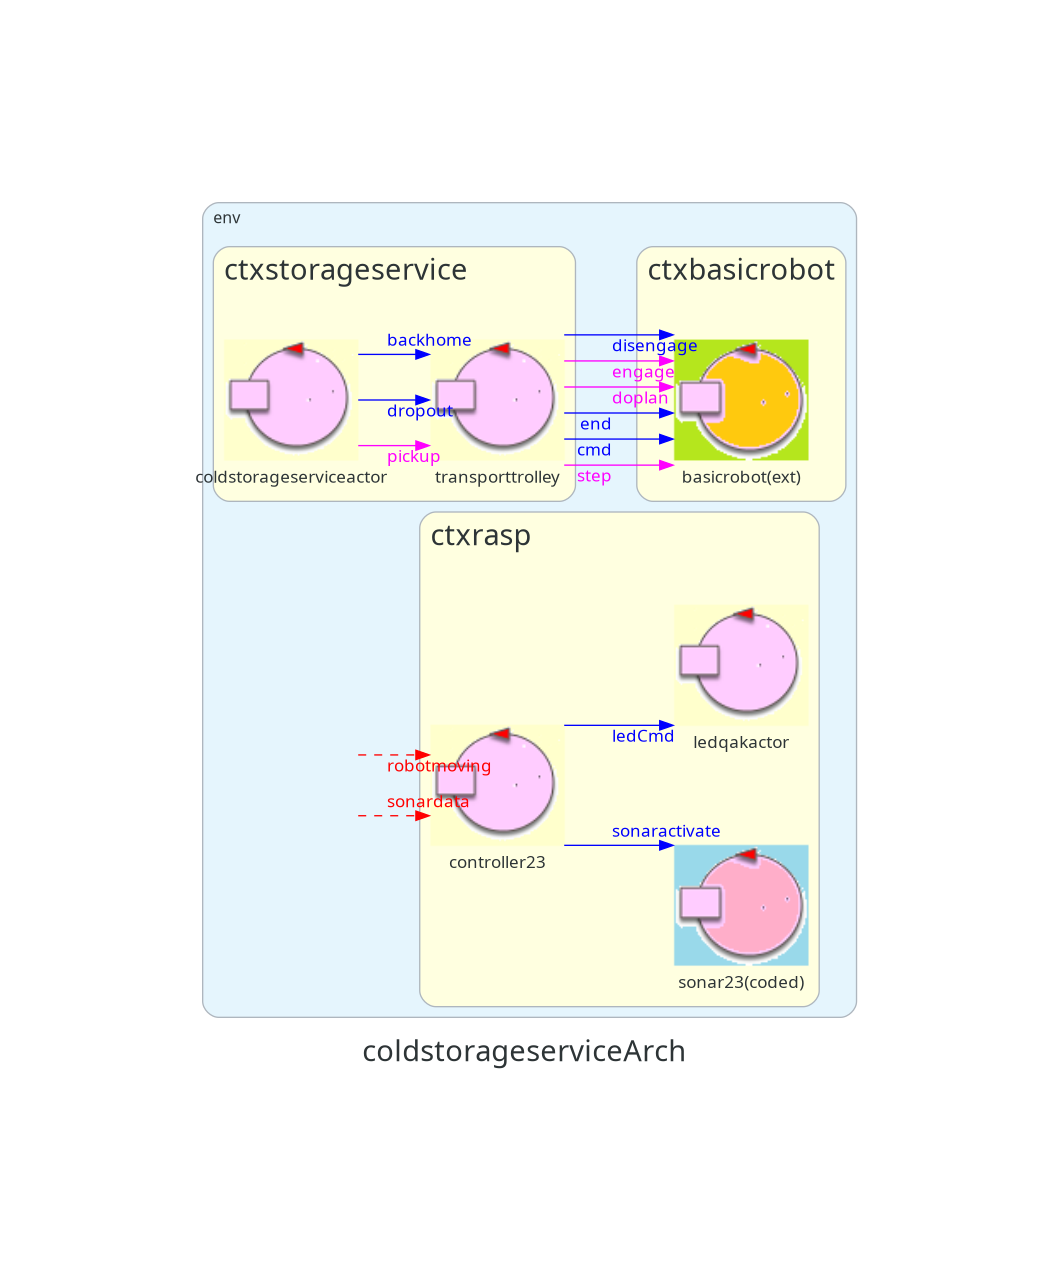
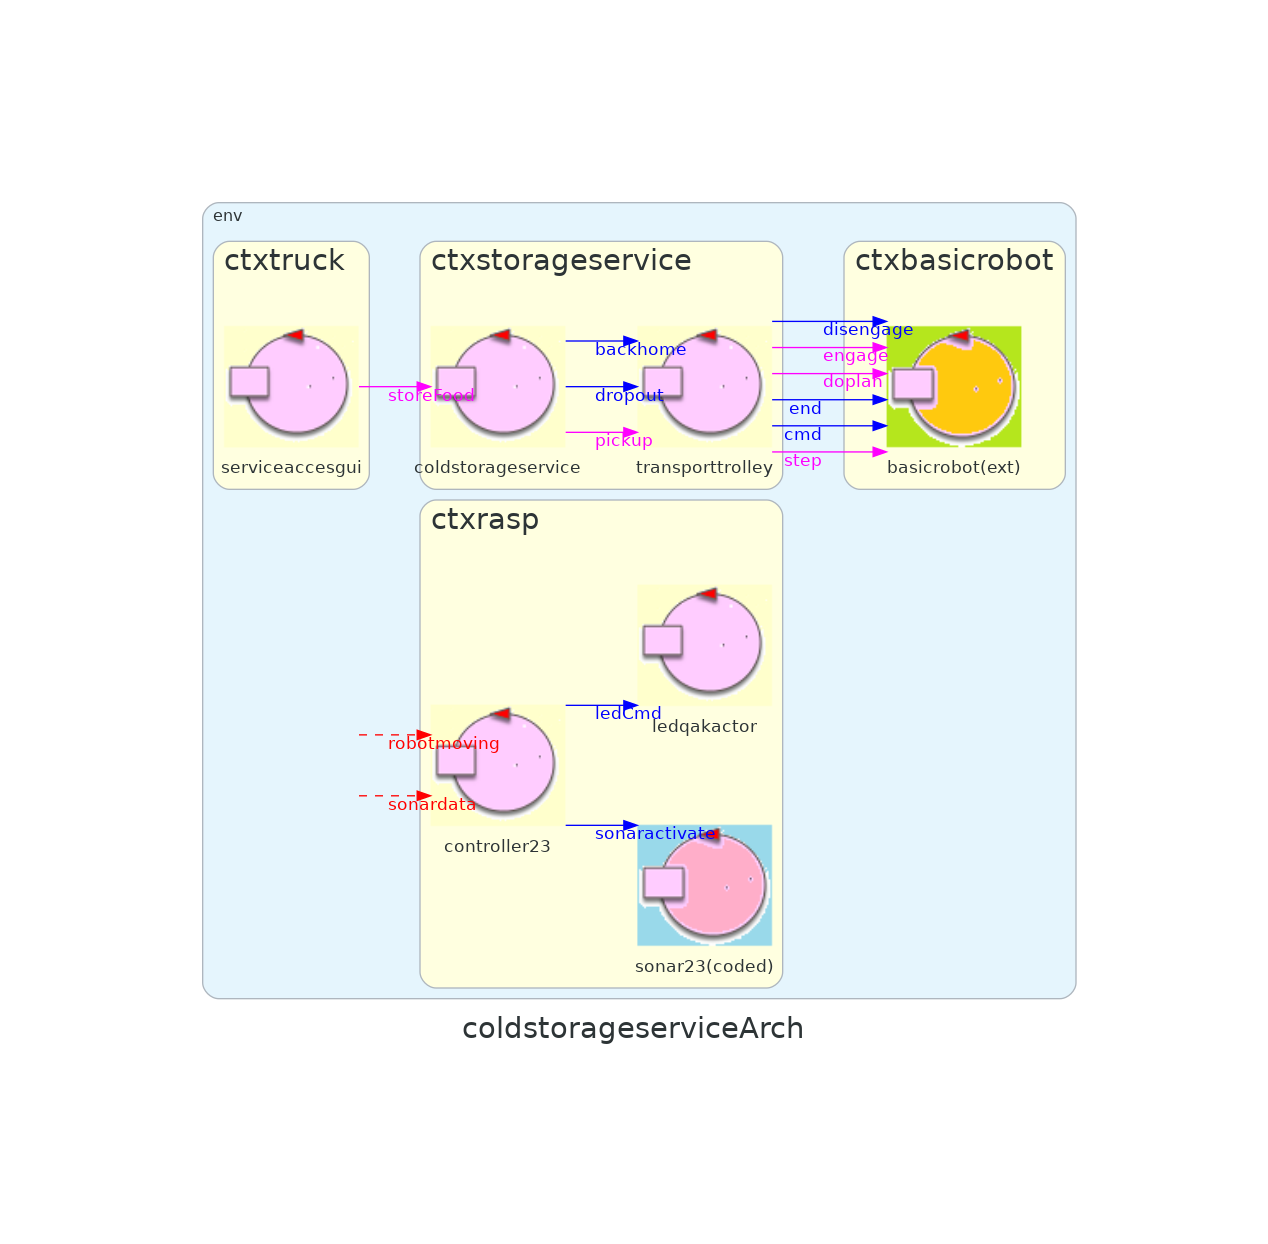
piccoli cambiamenti e modifiche
inserimento immagini, aggiunta service access gui

Changed region(s): [[0.1525, 0.1527, 0.8541, 0.8553]]

diff --git a/Sprint0/src/it/unibo/coldstorageservice/Coldstorageservice.kt b/Sprint0/src/it/unibo/coldstorageservice/Coldstorageservice.kt
@@ -1,0 +1,107 @@
+/* Generated by AN DISI Unibo */ 
+package it.unibo.coldstorageservice
+
+import it.unibo.kactor.*
+import alice.tuprolog.*
+import unibo.basicomm23.*
+import unibo.basicomm23.interfaces.*
+import unibo.basicomm23.utils.*
+import kotlinx.coroutines.CoroutineScope
+import kotlinx.coroutines.delay
+import kotlinx.coroutines.launch
+import kotlinx.coroutines.runBlocking
+	
+class Coldstorageservice ( name: String, scope: CoroutineScope  ) : ActorBasicFsm( name, scope ){
+
+	override fun getInitialState() : String{
+		return "setup"
+	}
+	override fun getBody() : (ActorBasicFsm.() -> Unit){
+		val interruptedStateTransitions = mutableListOf<Transition>()
+		
+			val maxw = coldstorageservice.Constants.MAXW
+		    var curretWeightStorage = 0.0
+		    var requestWeightToStore = 0.0
+		return { //this:ActionBasciFsm
+				state("setup") { //this:State
+					action { //it:State
+						CommUtils.outblack("$name |	setup")
+						//genTimer( actor, state )
+					}
+					//After Lenzi Aug2002
+					sysaction { //it:State
+					}	 	 
+					 transition( edgeName="goto",targetState="idle", cond=doswitch() )
+				}	 
+				state("idle") { //this:State
+					action { //it:State
+						CommUtils.outblack("$name |	in idle")
+						updateResourceRep(maxw.toJsonString() 
+						)
+						//genTimer( actor, state )
+					}
+					//After Lenzi Aug2002
+					sysaction { //it:State
+					}	 	 
+					 transition(edgeName="t05",targetState="requestEvaluation",cond=whenRequest("storeFood"))
+				}	 
+				state("requestEvaluation") { //this:State
+					action { //it:State
+						if( checkMsgContent( Term.createTerm("storeFood(_)"), Term.createTerm("storeFood(FW)"), 
+						                        currentMsg.msgContent()) ) { //set msgArgList
+								
+								        		try{
+								        			requestWeightToStore = (payloadArg(1).toFloat())
+								        		}catch(e : Exception){
+								answer("storeFood", "storeRejected", "storeRejected(_)"   )  
+								
+								        		}
+						}
+						//genTimer( actor, state )
+					}
+					//After Lenzi Aug2002
+					sysaction { //it:State
+					}	 	 
+					 transition( edgeName="goto",targetState="acceptRequest", cond=doswitchGuarded({ coldRoom.canStore(requestWeightToStore)  
+					}) )
+					transition( edgeName="goto",targetState="rejectRequest", cond=doswitchGuarded({! ( coldRoom.canStore(requestWeightToStore)  
+					) }) )
+				}	 
+				state("rejectRequest") { //this:State
+					action { //it:State
+						answer("storeFood", "storeRejected", "storeRejected(_)"   )  
+						//genTimer( actor, state )
+					}
+					//After Lenzi Aug2002
+					sysaction { //it:State
+					}	 	 
+					 transition( edgeName="goto",targetState="idle", cond=doswitch() )
+				}	 
+				state("acceptRequest") { //this:State
+					action { //it:State
+						
+						    	TICKET = coldstorageservice.Generate.TOKEN
+						    	TICKETID = TOKEN.TICKETID	
+						answer("storeFood", "storeAccepted", "storeAccepted(TICKET)"   )  
+						request("pickup", "pickup(TICKETID)" ,"transporttrolley" )  
+						//genTimer( actor, state )
+					}
+					//After Lenzi Aug2002
+					sysaction { //it:State
+					}	 	 
+					 transition(edgeName="t06",targetState="dropout",cond=whenReply("chargeTaken"))
+				}	 
+				state("dropout") { //this:State
+					action { //it:State
+						forward("dropout", "dropout(_)" ,"transporttrolley" ) 
+						forward("backhome", "backhome(_)" ,"transporttrolley" ) 
+						//genTimer( actor, state )
+					}
+					//After Lenzi Aug2002
+					sysaction { //it:State
+					}	 	 
+					 transition( edgeName="goto",targetState="idle", cond=doswitch() )
+				}	 
+			}
+		}
+}

diff --git a/Sprint0/userDocs/sprint0.html b/Sprint0/userDocs/sprint0.html
@@ -109,7 +109,11 @@ Dispatch sonaractivate     : info(ARG)
 Dispatch sonardeactivate   : info(ARG)
 Event sonar               : distance(V)
         </pre>
-<!--        TODO: Inserire qui l'architettura-->
+        <br><br>
+        <img src="./resources/images/sonarpipenano.png" alt="legenda" style="width: 78%;>
+
+        <!-------------Store Food--------->
+        <div id="sf">
         <br>
          L'attore <bc>distanceFilter</bc> filtra e invia al prossimo attore eventi di tipo ostacolo: l'evento viene creato solo quando la distanza 'filtrata' rilevata &egrave; minore di una distanza fissa predefinita <kc>DLIMIT</kc>.
         <pre>
@@ -482,34 +486,34 @@ QActor transporttrolley context ctxstorageservice {
 
     </div>
 
+
+        <h2>Piano di lavoro</h2>
+         <div class="remark">
+
+        </div>
     <!--
-        <h2>Test plans</h2>
-         <div class="remark">
+            <h2>Project</h2>
+             <div class="remark">
+
+
+
+            </div>
+        </div>
+
+        <h2>Testing</h2>
+        <div class="remark">
 
         </div>
 
-        <h2>Project</h2>
-         <div class="remark">
 
-
+        <h2>Deployment</h2>
+        <div class="remark">
 
         </div>
-    </div>
-
-    <h2>Testing</h2>
-    <div class="remark">
-
-    </div>
 
 
-    <h2>Deployment</h2>
-    <div class="remark">
-
-    </div>
-
-
-    <h2>Maintenance</h2>
-    -->
+        <h2>Maintenance</h2>
+        -->
 <!-- USEFUL
 <table style="width:100%" border="1">
 <tr>

diff --git a/Sprint0/src/it/unibo/serviceaccesgui/Serviceaccesgui.kt b/Sprint0/src/it/unibo/serviceaccesgui/Serviceaccesgui.kt
@@ -1,0 +1,43 @@
+/* Generated by AN DISI Unibo */ 
+package it.unibo.serviceaccesgui
+
+import it.unibo.kactor.*
+import alice.tuprolog.*
+import unibo.basicomm23.*
+import unibo.basicomm23.interfaces.*
+import unibo.basicomm23.utils.*
+import kotlinx.coroutines.CoroutineScope
+import kotlinx.coroutines.delay
+import kotlinx.coroutines.launch
+import kotlinx.coroutines.runBlocking
+	
+class Serviceaccesgui ( name: String, scope: CoroutineScope  ) : ActorBasicFsm( name, scope ){
+
+	override fun getInitialState() : String{
+		return "s0"
+	}
+	override fun getBody() : (ActorBasicFsm.() -> Unit){
+		val interruptedStateTransitions = mutableListOf<Transition>()
+		return { //this:ActionBasciFsm
+				state("s0") { //this:State
+					action { //it:State
+						request("storeFood", "idle" ,"coldstorageservice" )  
+						//genTimer( actor, state )
+					}
+					//After Lenzi Aug2002
+					sysaction { //it:State
+					}	 	 
+					 transition( edgeName="goto",targetState="idle", cond=doswitch() )
+				}	 
+				state("idle") { //this:State
+					action { //it:State
+						CommUtils.outblack("$name |	in idle")
+						//genTimer( actor, state )
+					}
+					//After Lenzi Aug2002
+					sysaction { //it:State
+					}	 	 
+				}	 
+			}
+		}
+}

diff --git a/Sprint0/src/it/unibo/ctxtruck/MainCtxtruck.kt b/Sprint0/src/it/unibo/ctxtruck/MainCtxtruck.kt
@@ -1,0 +1,13 @@
+/* Generated by AN DISI Unibo */ 
+package it.unibo.ctxtruck
+import it.unibo.kactor.QakContext
+import it.unibo.kactor.sysUtil
+import kotlinx.coroutines.runBlocking
+
+fun main() = runBlocking {
+	//System.setProperty(org.slf4j.impl.SimpleLogger.DEFAULT_LOG_LEVEL_KEY, "ERROR");
+	QakContext.createContexts(
+	        "192.168.1.xxx", this, "coldstorageservice.pl", "sysRules.pl","ctxtruck"
+	)
+}
+

diff --git a/Sprint0/Arch_coldstorageservice.py b/Sprint0/Arch_coldstorageservice.py
@@ -26,19 +26,22 @@ with Diagram('coldstorageserviceArch', show=False, outformat='png', graph_attr=g
           controller23=Custom('controller23','./qakicons/symActorSmall.png')
           sonar23=Custom('sonar23(coded)','./qakicons/codedQActor.png')
      with Cluster('ctxstorageservice', graph_attr=nodeattr):
-          coldstorageserviceactor=Custom('coldstorageserviceactor','./qakicons/symActorSmall.png')
+          coldstorageservice=Custom('coldstorageservice','./qakicons/symActorSmall.png')
           transporttrolley=Custom('transporttrolley','./qakicons/symActorSmall.png')
+     with Cluster('ctxtruck', graph_attr=nodeattr):
+          serviceaccesgui=Custom('serviceaccesgui','./qakicons/symActorSmall.png')
      controller23 >> Edge(color='blue', style='solid', xlabel='sonaractivate', fontcolor='blue') >> sonar23
      sys >> Edge(color='red', style='dashed', xlabel='sonardata', fontcolor='red') >> controller23
      sys >> Edge(color='red', style='dashed', xlabel='robotmoving', fontcolor='red') >> controller23
      controller23 >> Edge(color='blue', style='solid', xlabel='ledCmd', fontcolor='blue') >> ledqakactor
-     coldstorageserviceactor >> Edge(color='magenta', style='solid', xlabel='pickup', fontcolor='magenta') >> transporttrolley
-     coldstorageserviceactor >> Edge(color='blue', style='solid', xlabel='dropout', fontcolor='blue') >> transporttrolley
-     coldstorageserviceactor >> Edge(color='blue', style='solid', xlabel='backhome', fontcolor='blue') >> transporttrolley
+     coldstorageservice >> Edge(color='magenta', style='solid', xlabel='pickup', fontcolor='magenta') >> transporttrolley
+     coldstorageservice >> Edge(color='blue', style='solid', xlabel='dropout', fontcolor='blue') >> transporttrolley
+     coldstorageservice >> Edge(color='blue', style='solid', xlabel='backhome', fontcolor='blue') >> transporttrolley
      transporttrolley >> Edge(color='magenta', style='solid', xlabel='step', fontcolor='magenta') >> basicrobot
      transporttrolley >> Edge(color='blue', style='solid', xlabel='cmd', fontcolor='blue') >> basicrobot
      transporttrolley >> Edge(color='blue', style='solid', xlabel='end', fontcolor='blue') >> basicrobot
      transporttrolley >> Edge(color='magenta', style='solid', xlabel='doplan', fontcolor='magenta') >> basicrobot
      transporttrolley >> Edge(color='magenta', style='solid', xlabel='engage', fontcolor='magenta') >> basicrobot
      transporttrolley >> Edge(color='blue', style='solid', xlabel='disengage', fontcolor='blue') >> basicrobot
+     serviceaccesgui >> Edge(color='magenta', style='solid', xlabel='storeFood', fontcolor='magenta') >> coldstorageservice
 diag
